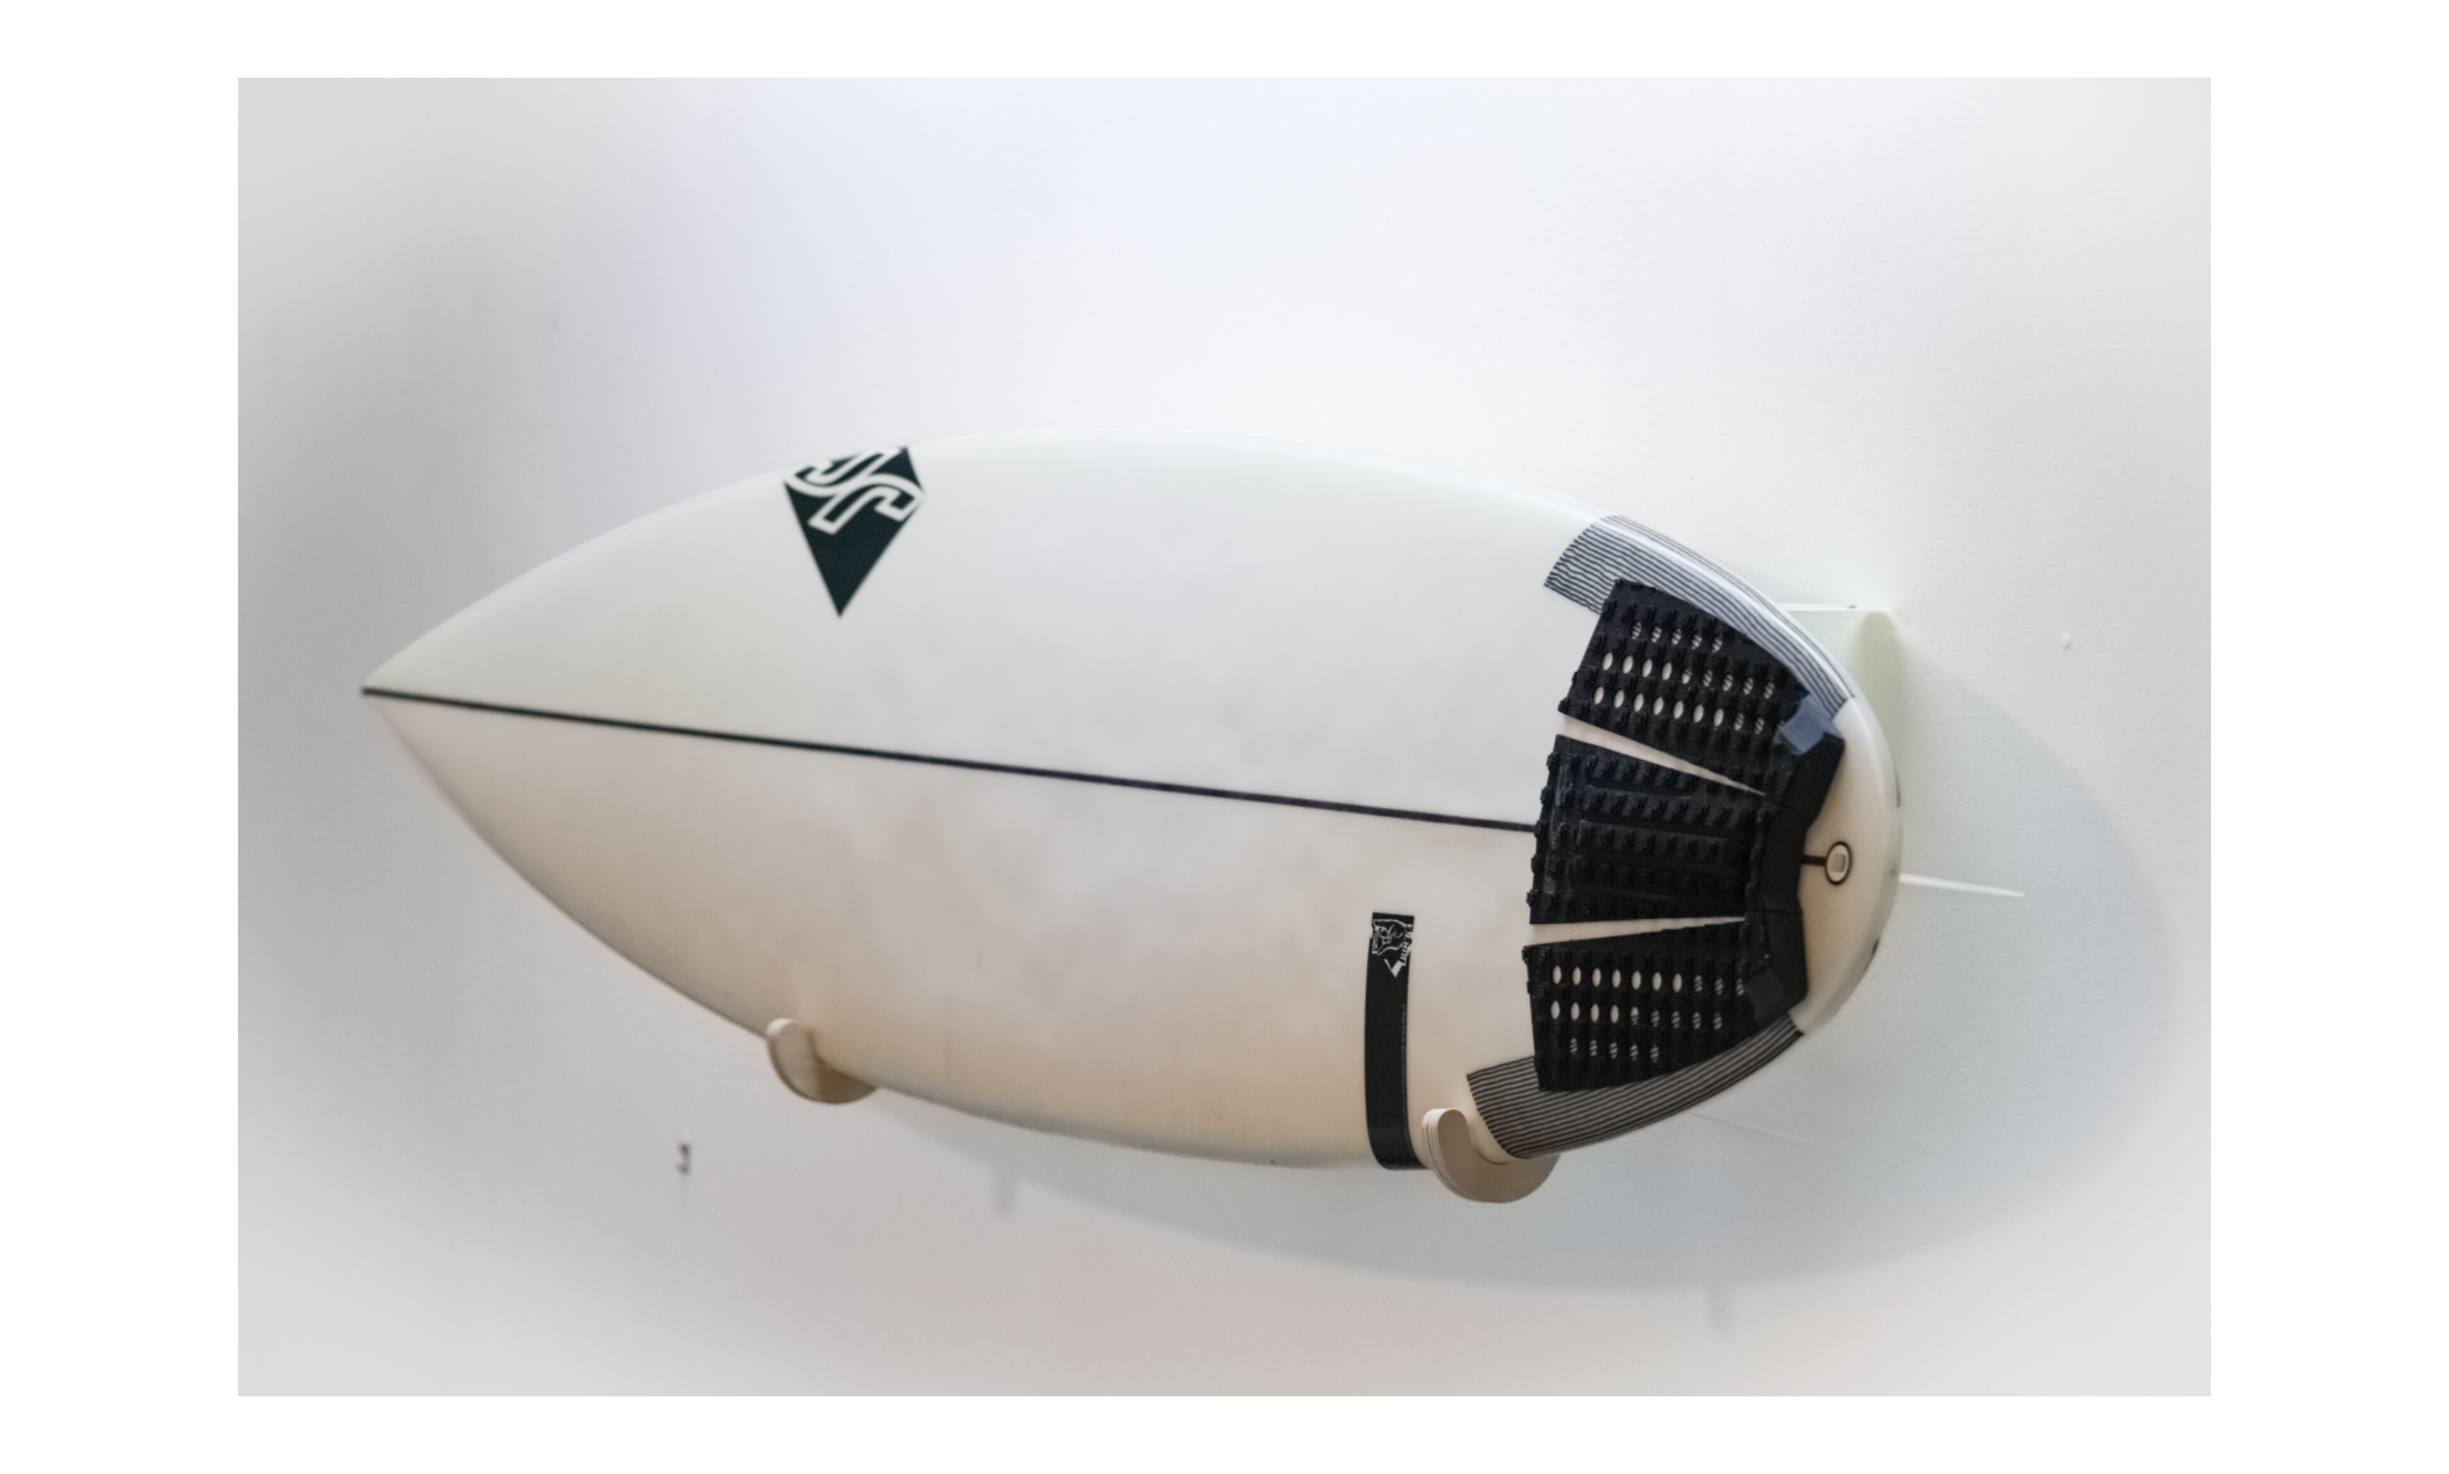
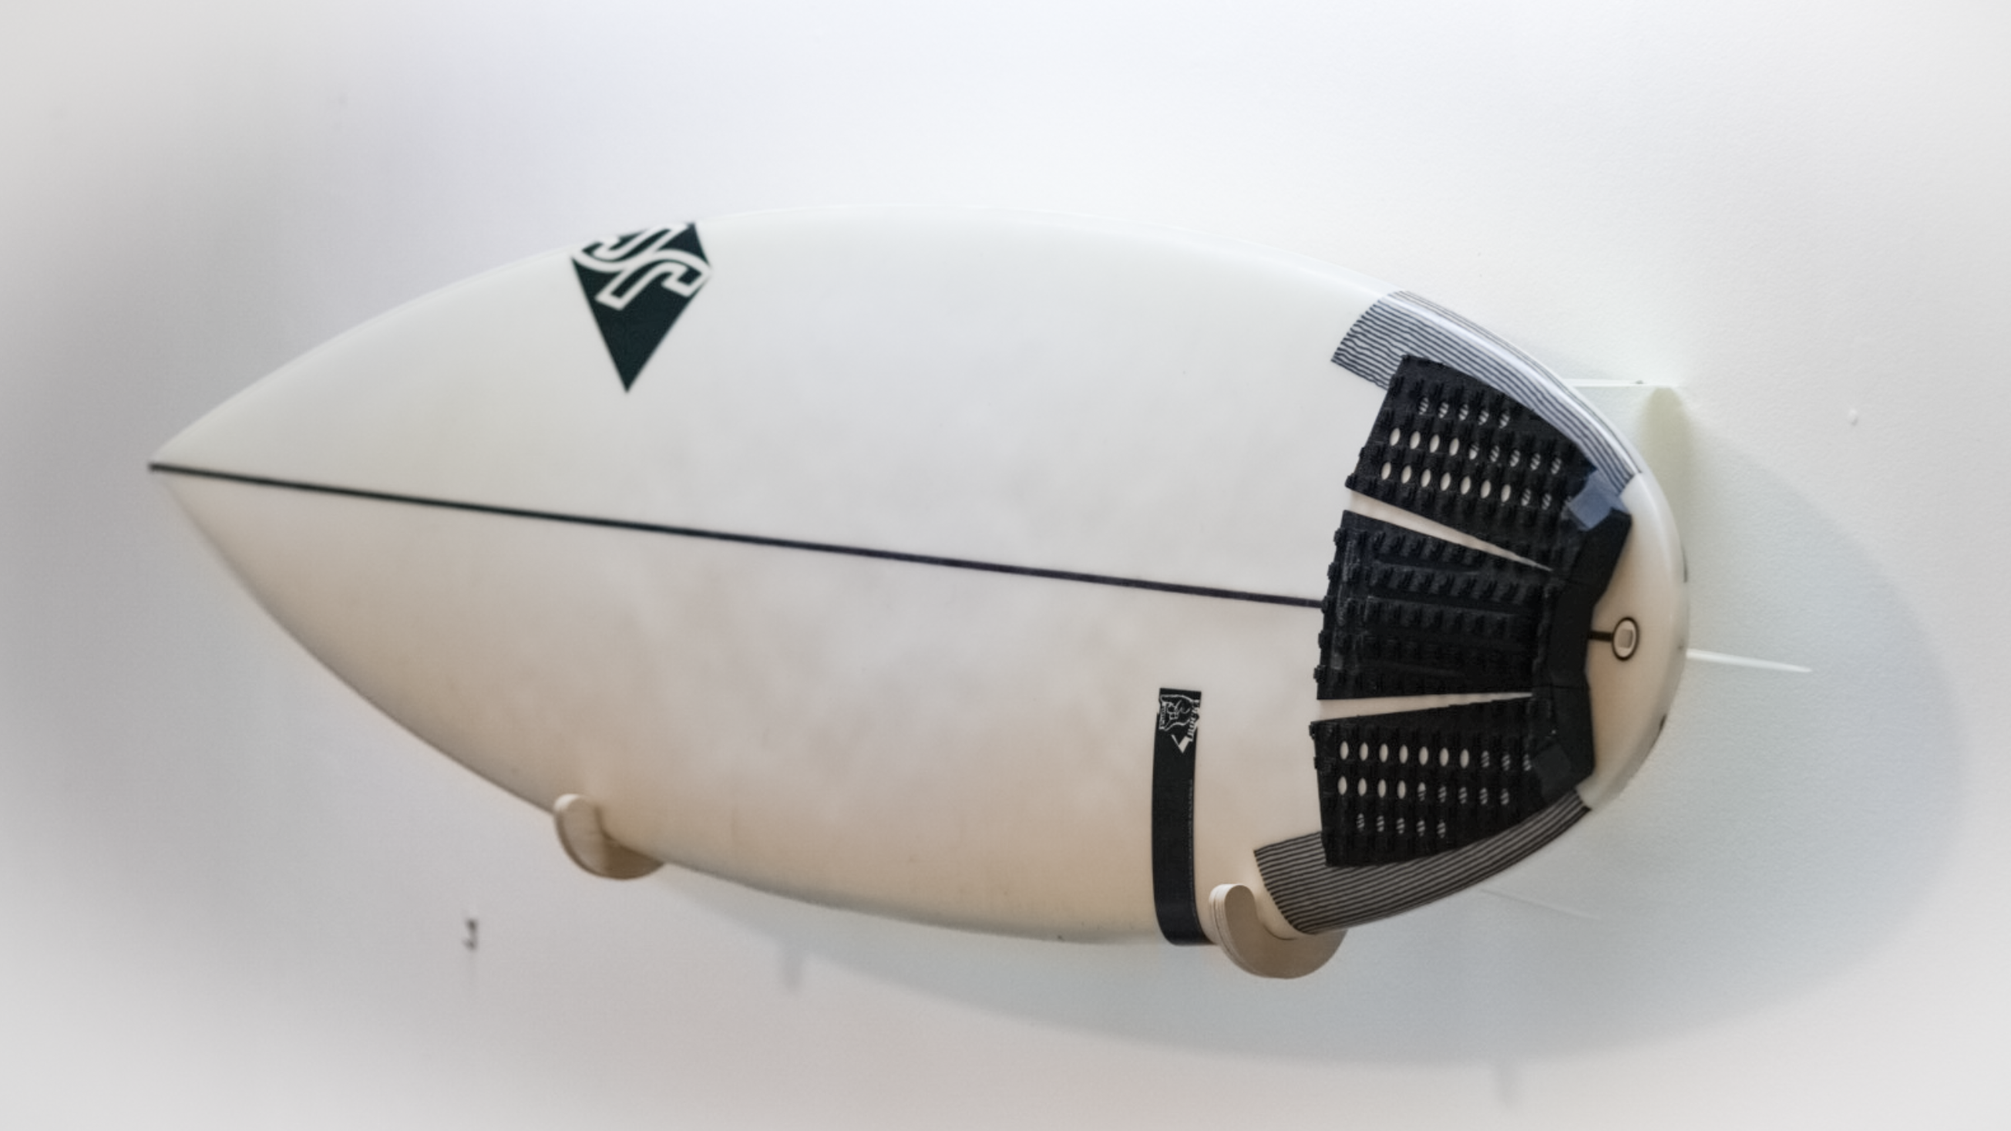
added more surf content

diff --git a/_surf/multi-fin.md b/_surf/multi-fin.md
@@ -1,27 +1,34 @@
 ---
 title: "Multi-fin"
-excerpt: "multiple level surfrack"
-header:
-  image: /assets/images/surf/surfrack.png
-  teaser: /assets/images/surf/surfrack.png
-sidebar:
-  - title: "Role"
-    image: http://placehold.it/350x250
-    image_alt: "logo"
-    text: "Designer, Front-End Developer"
-  - title: "Responsibilities"
-    text: "Reuters try PR stupid commenters should isn't a business model"
-gallery:
-  - url: /assets/images/surf/surfrack.png
-    image_path: assets/images/surf/surfrack.png
-    alt: "surfrack.png"
-
+categories:
+  - Surf
+tags:
+  - Surfrack
+  - Water sports
+  - CNC
+gallery1:
+  - url: /assets/images/surf/surfrack_multi_2.png
+    image_path: /assets/images/surf/surfrack_multi_2.png
+    alt: "Multi-fin"
+  - url: /assets/images/surf/surfrack_multi_3.png
+    image_path: /assets/images/surf/surfrack_multi_3.png
+    alt: "Multi-fin"
+gallery2:
+  - url: /assets/images/surf/surfrack-multi.png
+    image_path: /assets/images/surf/surfrack-multi.png
+    alt: "Multi-fin"
+  - url: /assets/images/surf/surfrack-multi.png
+    image_path: /assets/images/surf/surfrack-multi.png
+    alt: "Multi-fin"
 ---
+{% include gallery id="gallery1" %}
 
-Multi-fin Surfrack
+## Multi-fin Surfrack
 
 Hold your boards high and display them with pride. Don't hide your boards in the garage, bring them into your living space to be shown-off like the works of art that they are. 
 
 The product is perfect for mounting over couches, or other furniture to make the best use of your living space. 
 
 The rack comes in single, twin, thruster (3) and quad variants.  The design uses some clever joints to make assembly a breeze. 
+
+{% include gallery id="gallery2" %}

diff --git a/_surf/surfs-up.md b/_surf/surfs-up.md
@@ -1,27 +1,35 @@
 ---
 title: "Surf's Up!"
 categories:
-  - Furniture
+  - Surf
 tags:
   - Surfrack
   - Water sports
   - CNC
 gallery1:
-  - url: /assets/images/surf/surfrack_single_5.png
-    image_path: /assets/images/surf/surfrack_single_5.png
+  - url: /assets/images/surf/surfrack.png
+    image_path: /assets/images/surf/surfrack.png
+    alt: "surfs-up"
+  - url: /assets/images/surf/surfrack_single_1.png
+    image_path: /assets/images/surf/surfrack_single_1.png
+    alt: "surfs-up"
+gallery2:
+  - url: /assets/images/surf/surfrack_single_2.png
+    image_path: /assets/images/surf/surfrack_single_2.png
     alt: "surfs-up"
   - url: /assets/images/surf/surfrack_single_4.png
     image_path: /assets/images/surf/surfrack_single_4.png
     alt: "surfs-up"
-gallery2:
-  - url: /assets/images/surf/surfrack_single_6.png
-    image_path: /assets/images/surf/surfrack_single_6.png
+  - url: /assets/images/surf/surfrack_single_5.png
+    image_path: /assets/images/surf/surfrack_single_5.png
     alt: "surfs-up"
 ---
 {% include gallery id="gallery1" %}
-{% include gallery id="gallery2" %}
+
 ## Surf's-Up! Surfrack
 
 Your favourite board. From the best angle. 
 
 This simple rack elegantly displays your board along its best aspect. You can display boards deck up or down. Show off any artwork or decoration and get the best vantage point to take in the full-form of your favourite board.
+
+{% include gallery id="gallery2" %}

diff --git a/_pages/campervan.md b/_pages/campervan.md
@@ -10,12 +10,12 @@ classes: wide
 
 header:
   overlay_color: "#000"
-  overlay_filter: "0.5"
+  overlay_filter: "0"
   overlay_image: /assets/images/campervan/everything-butter-bg.png
   actions:
     - label: "Learn More"
       url: "/furniture/more/"
-  caption: "Photo credit: [**Cameron?**](https://d-i-ply.com/)"
+  caption: "Photo credit: [**Tanya Somova**](https://d-i-ply.com/)"
 excerpt: "Are you a designer interested in having your ideas made real?
 Want to make a passive income?
 Submit your design here and get started.."

diff --git a/_pages/surf.md b/_pages/surf.md
@@ -37,7 +37,7 @@ feature_row:
     btn_label: "Read More"
     btn_class: "btn--primary"
     #3 - lamp
-  - image_path: /assets/images/surf/surfrack_single_2.png
+  - image_path: /assets/images/surf/surfrack_multi_1.png
     title: "Multi-fin"
     alt: "Multi-fin"
     excerpt: "This rack comes in single, twin, thruster (3) and quad variants. Designed by Cameron Stewart."
